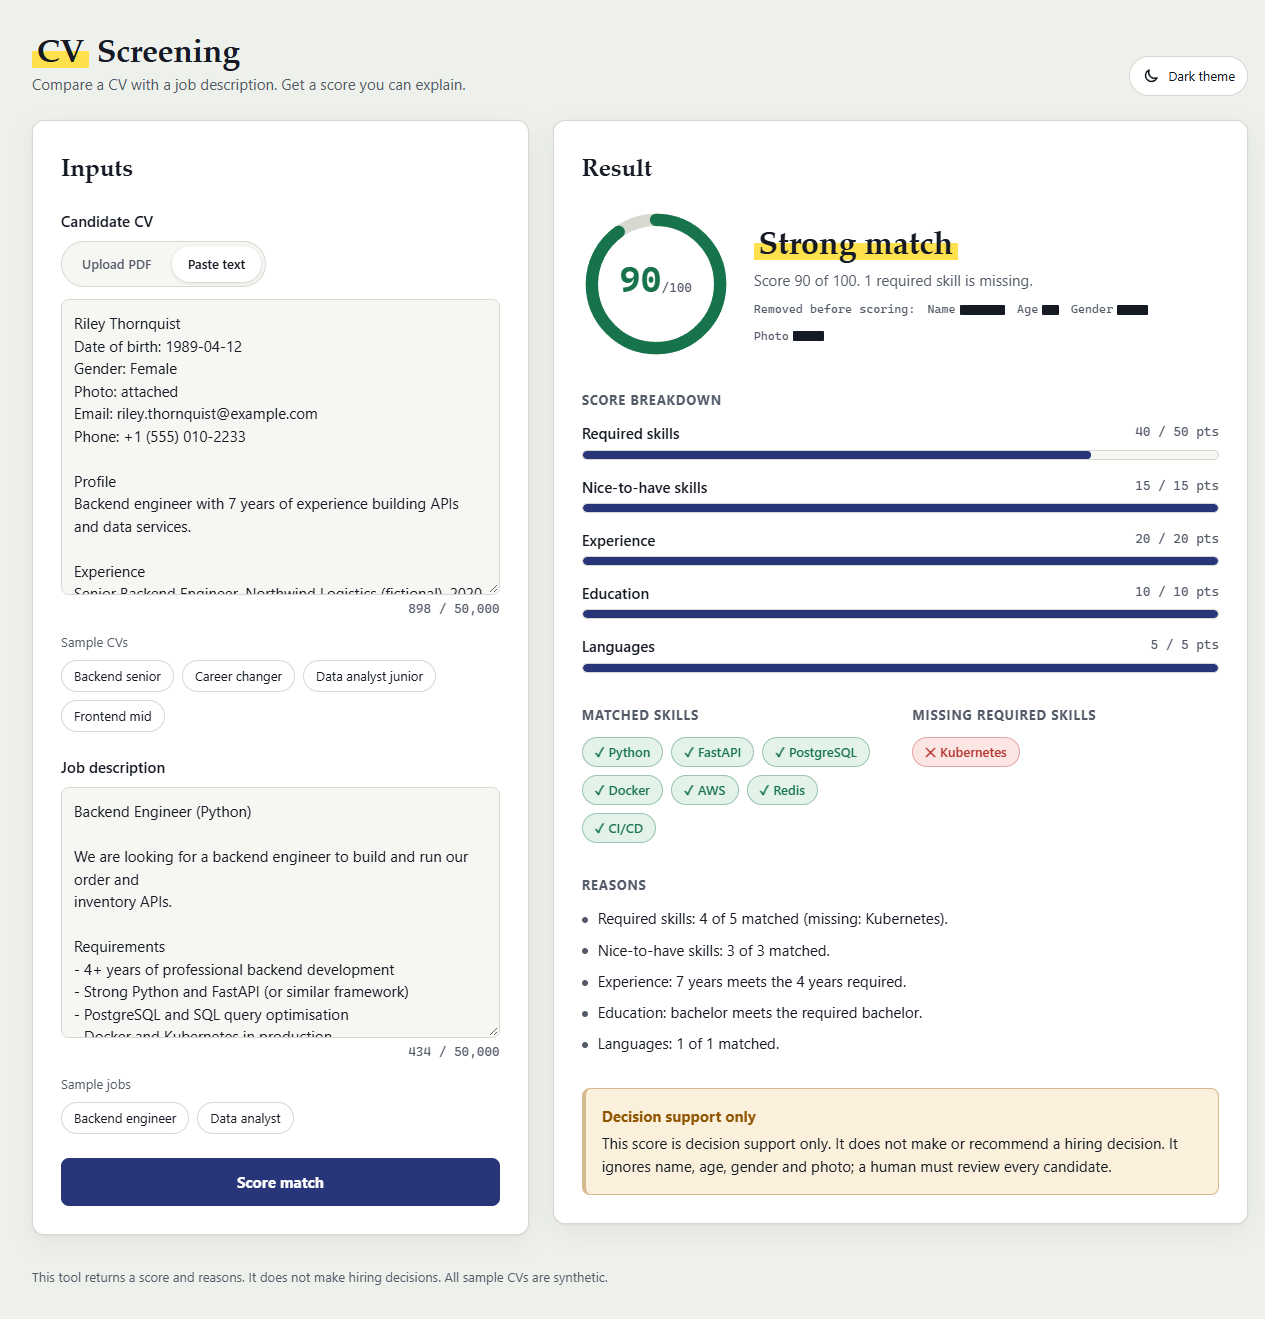
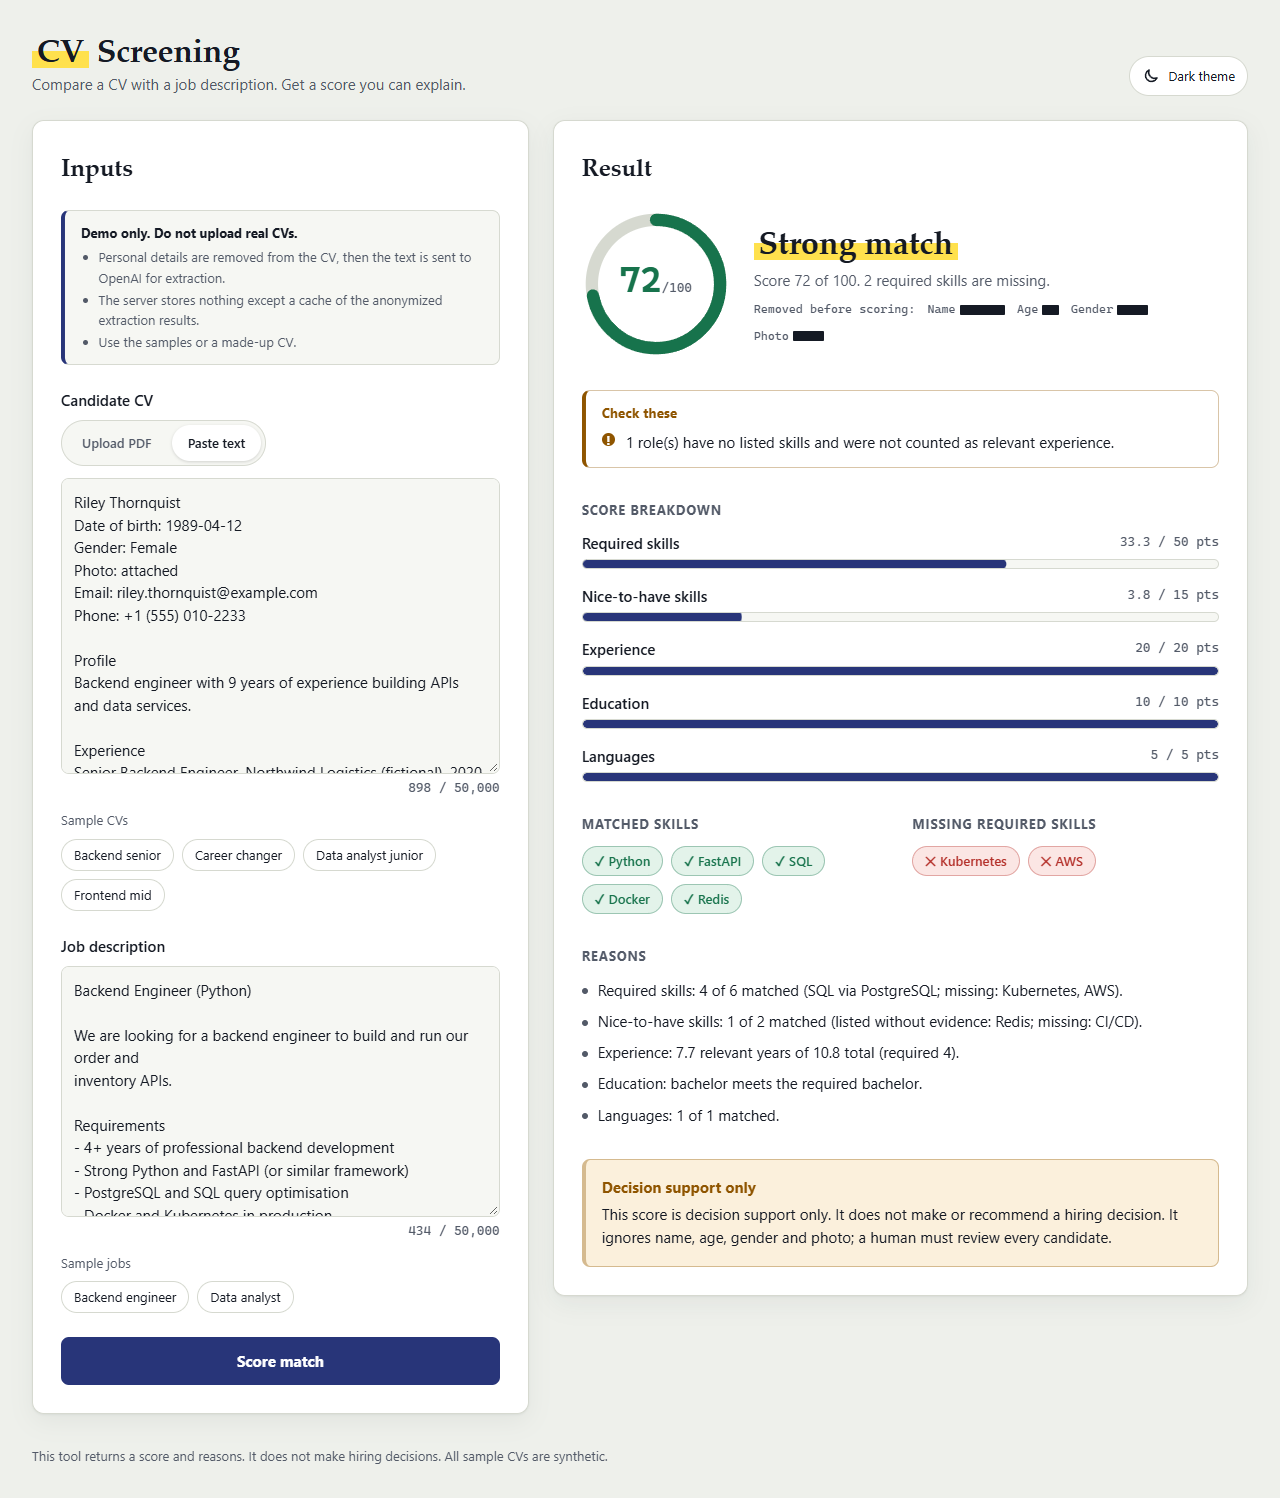
docs: add live demo link and refresh screenshot

diff --git a/README.md b/README.md
@@ -6,9 +6,14 @@ A FastAPI service that compares a CV with a job description and returns an
 > The service does **not** make hiring decisions. It returns a score and reasons only,
 > as decision support for a human reviewer.
 
-![Web interface showing a match score of 90 with breakdown bars, matched and missing skills, reasons and the disclaimer](docs/screenshot.png)
+**Live demo:** <https://cv-screening-lpi1.onrender.com/>. It runs on free hosting, so the first load can take
+30-50 seconds while the server wakes up. It is a demo only: do not upload real CVs. Use the sample CVs or a
+made-up one.
 
-*Web interface with a synthetic CV and job description. The screenshot was taken with a stubbed model client.*
+![Web interface with the privacy notice above the inputs and a result of 72 (strong match): a warning box, score breakdown bars, matched and missing skills, reasons and the disclaimer](docs/screenshot.png)
+
+*Web interface with a synthetic CV and job description. The screenshot was taken locally with a stand-in model
+client, so no real model calls were made.*
 
 ## How it works
 
